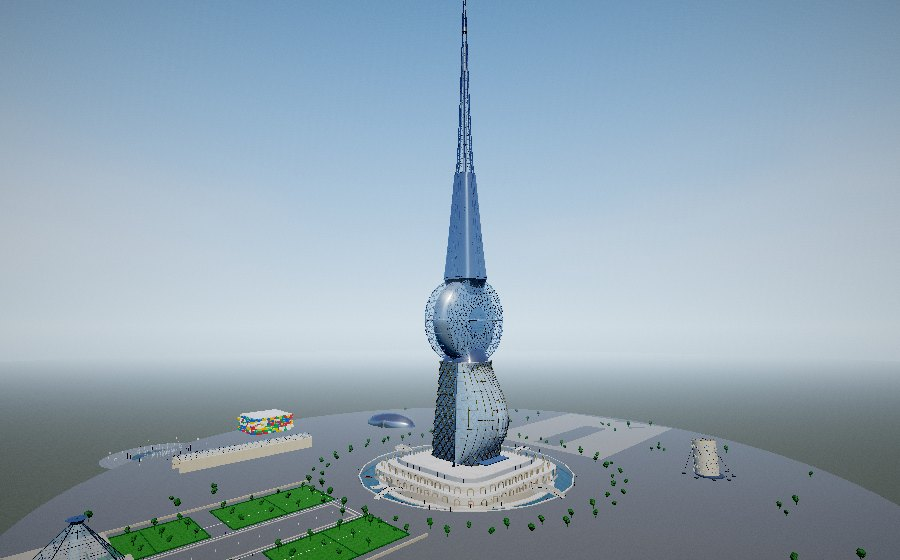
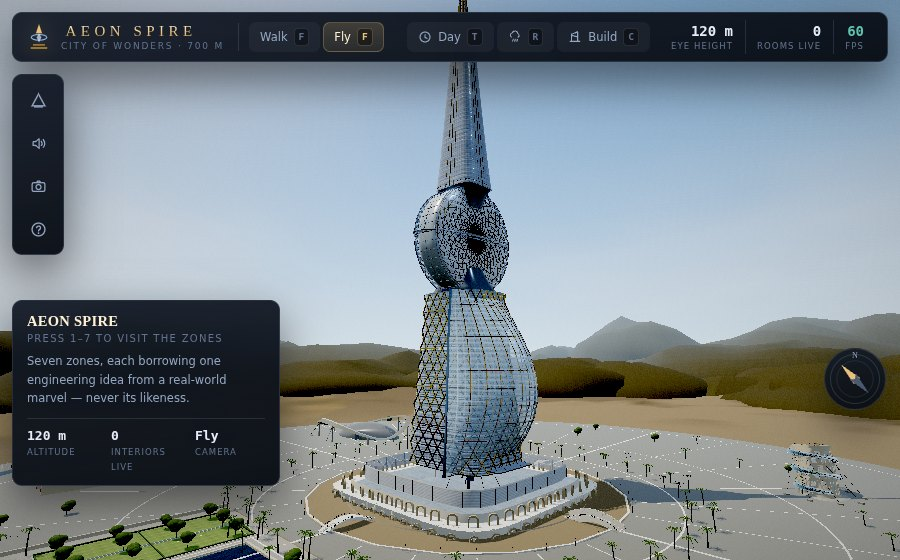
AEON SPIRE: document the post-review pass and start refreshing the gallery
Adds a post-review section to PROGRESS.md listing every defect found after
the first delivery with its root cause, and the design work that followed.
README gains the curtain-wall note, accurate Zone 6 and Zone 7 entries for
the reflecting pool, the Speed Ribbon, the cassette stack and the Promenade
gridshell, and gallery rows for each.

Also clears out ~55 working screenshots from the visual-debugging passes;
docs/screenshots now holds only the curated set the README cites.

Claude-Session: https://claude.ai/code/session_01TZgPSjoNMVb8kMfP6tnUsd

diff --git a/aeon-spire/README.md b/aeon-spire/README.md
@@ -87,8 +87,20 @@ likeness or its branding.
 | **3 · The Ring Deck** | L31–L55 | Aldar HQ — a circular structural disc standing on edge | A 110 m disc, 44 m thick, carrying a radial face diagrid; the tower waists through it, and a glass-bottomed halo walkway is cantilevered clear of it on radial ribs and ties. |
 | **4 · The Spire Crown** | L56–L88 + spire | Cathedral spires — verticality and rhythm, not ornament | A tapering parametric lattice from 400 m to 700 m with LED-integrated ribs, housing a tuned mass damper and terminating in a broadcast mast and aviation beacon. |
 | **5 · The Leaning Observatory** | ground–40 m | Pisa — a lean, declared and then engineered against | A deliberate 8° tilt applied as a rotation on the whole annex, resolved by six post-tensioned cable anchors and an asymmetric caisson offset against the lean. |
-| **6 · Reflection Court & Pyramid Pavilion** | ground | Taj Mahal axial symmetry + Giza's pure geometry | A mirror-symmetrical reflecting pool and four planted quadrants leading to a glass-and-stone pyramid housing the sustainability core — geothermal exchange, a solar chimney and the rainwater cistern. |
-| **7 · The Wonder Annex** | ground | A motorsport pavilion, a modular-block pavilion, a themed promenade | A curved aerodynamic speed form, an oversized modular-block creative pavilion, and a glazed barrel-vaulted arcade overlooking a light-and-water show plaza. |
+| **6 · Reflection Court & Pyramid Pavilion** | ground | Taj Mahal axial symmetry + Giza's pure geometry | A 174 m mirror-symmetrical reflecting pool, and four planted quadrants with dressed stone kerbs, sunk irrigation rills and a palm at every crossing, leading to a glass-and-stone pyramid housing the sustainability core — geothermal exchange, a solar chimney and the rainwater cistern. |
+| **7 · The Wonder Annex** | ground | Three engineering set-pieces: a banked test loop, a corbelled cassette stack, a doubly-curved gridshell | The **Speed Ribbon** — a 300 m banked loop lifted over the motorsport pavilion on eight raking piers, its deck rolled by the curvature it resists; the **Modular Block Pavilion** — a stone maker hall carrying seven prefabricated whole-floor cassettes, each turned 13° and reaching further out than the one below until the top floor stands 15 m clear; and the **Themed Promenade** — a gridshell whose rise swells down the street and whose crown slides off the centreline, so no two glazed panels are the same shape. |
+
+### The cladding
+
+Everything on the campus that is glazed wears the same procedural curtain
+wall: unitised panels with mullions, transoms and spandrel bands, per-unit
+tint and roughness jitter, and a shallow pillow in the normal map that
+reproduces the wavy reflection laminated glass has under wind load. The
+alpha map is the part that matters — spandrels nearly opaque, vision glass
+not — so floor lines read from a kilometre out instead of the tower being
+one tinted balloon. Architectural metals sit at metalness 0.34–0.4, and the
+environment probe desaturates the sky 45% toward luminance before filtering,
+because a building mirroring a blue zenith is not a blue building.
 
 **Height breakdown:** podium 18 m · sail atrium 124 m · ring deck 110 m ·
 occupied crown 148 m · lattice spire 300 m = **700 m** to the tip of the mast.
@@ -235,9 +247,13 @@ marque. Nothing in the scene is copied; everything in it is argued for.
 | | |
 |---|---|
 | ![Night](docs/screenshots/tod-night.jpg) | ![Rain at dusk](docs/screenshots/weather-rain.jpg) |
-| **Night** — lit windows, moonlight raking the sail, the aviation beacon pulsing at 700 m | **Rain at dusk** — wind-blown streaks, wet surfaces, the canal rippling harder |
+| **Night** — lit windows scattered through the curtain wall, moonlight raking the sail, the aviation beacon pulsing at 700 m | **Rain at dusk** — wind-blown streaks, wet surfaces, the canal rippling harder |
 | ![The Ring Deck](docs/screenshots/facade-ringface.jpg) | ![The canal](docs/screenshots/facade-canal.jpg) |
-| **The Ring Deck** — a 110 m disc on edge, radial face diagrid, the tower waisting through it | **The Canal Concourse** — the sunken canal, arched footbridges, the market arcade |
+| **The Ring Deck** — a 104 m disc on edge, bronze radial face diagrid, the tower waisting through it | **The Canal Concourse** — the sunken canal, arched footbridges, the market arcade |
+| ![The Reflection Court](docs/screenshots/facade-court.jpg) | ![The Speed Ribbon](docs/screenshots/facade-ribbon.jpg) |
+| **The Reflection Court** — a 174 m reflecting pool on the axis, four kerbed parterres with sunk irrigation rills, the pyramid closing the view | **The Speed Ribbon** — a 300 m banked test loop lifted over the motorsport pavilion on eight raking piers |
+| ![The Promenade gridshell](docs/screenshots/facade-promenade.jpg) | ![The cassette stack](docs/screenshots/facade-cassette.jpg) |
+| **The Themed Promenade** — a doubly-curved gridshell whose rise swells down the street and whose crown slides off the centreline | **The Modular Block Pavilion** — seven whole-floor cassettes, each turned 13° and reaching further out than the one below |
 | ![Milestone 6](docs/screenshots/build-m06.jpg) | ![The PM panel](docs/screenshots/hud-construction.jpg) |
 | **Construction, milestone 6** — bare diagrid, the disc going in, hoarding and haul road, no landscaping yet | **The PM panel at milestone 7** — duration-weighted Gantt, day 505 of 700, SPI 0.973, CPI 0.911 |
 
@@ -266,7 +282,10 @@ exactly one thing that can fail to resolve at runtime.
 | `src/core/PostFX.js` | Bloom, depth of field, ACES tonemapping and per-mode colour grading, written against `WebGLRenderTarget`. |
 | `src/audio/Synth.js` | Every sound in the project, synthesised: pink and brown noise beds, water, rain, thunder, birdsong, crickets, a generative pad, construction foley, and seven convolver impulse responses. |
 | `src/construction/ConstructionSite.js` | The build-height clipping plane that reveals the tower course by course. |
-| `src/world/BuildKit.js` | Lofting, parametric surfaces, diagrids, trusses and a geometry merger written from scratch (`BufferGeometryUtils` is an addon). |
+| `src/world/BuildKit.js` | Lofting, parametric surfaces, diagrids, trusses, date palms and a geometry merger written from scratch (`BufferGeometryUtils` is an addon). |
+| `TextureFactory.curtainWall` | The campus's cladding module: unitised panels with mullions, transoms and spandrel bands, per-unit tint and roughness jitter, a pillowed normal map, and the alpha map that lets floor lines read from a kilometre out. |
+| `WonderAnnex.buildSpeedRibbon` | The banked loop. The deck's roll is set by the curvature it resists, so the surface is warped along its whole length. |
+| `src/scene/Environment.js` | The environment probe, and the 45% desaturation that keeps a building mirroring a blue zenith from becoming a blue building. |
 
 ### Performance
 

diff --git a/aeon-spire/PROGRESS.md b/aeon-spire/PROGRESS.md
@@ -169,3 +169,49 @@ using the metrics that actually predict it: draw calls (~155 exterior, ~520
 with all 31 interiors forced live), triangle count (368k), and CPU simulation
 cost (0.22 ms/frame). Those budgets sit well inside what a mid-range laptop
 sustains at 60 fps, but the number itself has not been observed on a GPU.
+
+---
+
+## Post-review pass — visual quality and defects
+
+A review of the first delivery found the campus reading as flat and toy-like,
+and the file failing to open by double-click. Everything below was found,
+fixed and re-verified against the same suite.
+
+### Defects
+
+| Symptom | Root cause |
+|---|---|
+| The file would not open by double-click | ES modules are blocked over `file://`. `index.html` at the repo root is now the self-contained single-file build; `dev.html` is the module bootstrap and says it needs a server. |
+| Every tower rendered as one moulded cobalt mass | Three causes at once: glazing was a flat tinted sheet with no internal structure; big exterior metals sat at metalness 0.7–0.9, so 400 m of cladding mirrored the sky; and the environment probe reflected the sky at full saturation. |
+| The Ring Deck read as a blue sphere impaled on the tower | Its cross-section used a corner radius of 0.95× the half-thickness, making the coin's edge a full semicircle; and the core shaft was waisted *wider* than the disc was thick, so it broke out through both faces as a black band. |
+| The Reflection Court had no visible water | `rotateX(-90°)` sends a shape's +Y to −Z, so the court's paving — drawn with world Z values — was laid 300 m away on the far side of the campus, taking the pool's cut-out with it. The site plaza then roofed the pool over as well. |
+| Every pool and canal was flat grey paint | Water sat at metalness 0.16–0.3, which puts a high specular floor at every angle. At metalness 0 the Fresnel ramp does the work. |
+| The desert was a flat brown plate | The distant ground was a `CircleGeometry` — a triangle fan with 97 vertices, all but one on the rim — so every line of terrain displacement had nothing to displace. |
+| Shaded faces went almost black | A 4.2-intensity sun behind a 0.34 fill. Real daylight carries a very strong sky fill. |
+| Several surfaces rendered black however they were lit | `polishedConcrete` and `slate` are charcoal maps (0x30–0x4a), so anything asking for them with a pale tint came out near black — the Speed Ribbon deck and piers, and the Leaning Observatory's caisson and anchor blocks. |
+| Hand-built materials never got an environment map | `setEnvMap` walked only the library cache. `MaterialLibrary.adopt()` now takes them in, and `makeWeatherReactive` composes its program cache key instead of replacing it, so three water shaders cannot collapse onto one compiled program. |
+| The HUD compass threw during interior construction | `getWorldDirection()` was called with a plain object, which has no `.set`. It now reads the camera basis straight out of the world matrix. |
+
+### Design
+
+- **Cladding.** A new procedural curtain wall — unitised panels, mullions,
+  transoms, spandrel bands, per-unit tint and roughness jitter, a pillowed
+  normal map, and an alpha map that lets floor lines read from a kilometre out.
+  `litFacade()` is rebuilt on it, so every facade on the campus gains it.
+- **Modular Block Pavilion.** Was a stack of studded primary-colour bricks,
+  which read as a toy and was a particular toy's trade dress besides. Now a
+  stone maker hall carrying seven prefabricated whole-floor cassettes, each
+  turned 13° and reaching further out than the one below.
+- **Themed Promenade.** A doubly-curved gridshell replaces the semicircular
+  barrel: the rise swells down the street and the crown slides off the
+  centreline, so no two glazed panels are the same shape.
+- **Motorsport Pavilion.** Gains the Speed Ribbon, a 300 m banked test loop
+  lifted over the roof on eight raking piers.
+- **Landscape.** Dune relief and vertex-coloured sand, gravel, salt flats and
+  scrub; date palms on the canal terrace and all four approach causeways;
+  dry-toned turf; and the Court's parterres given stone kerbs, sunk irrigation
+  rills and a palm at every crossing.
+- **UI.** Rebuilt on a design-token theme: branded top bar, live earned-value
+  metrics that stand down to campus readouts outside construction mode, an
+  icon rail, a context card, a compass, and a duration-weighted Gantt.
